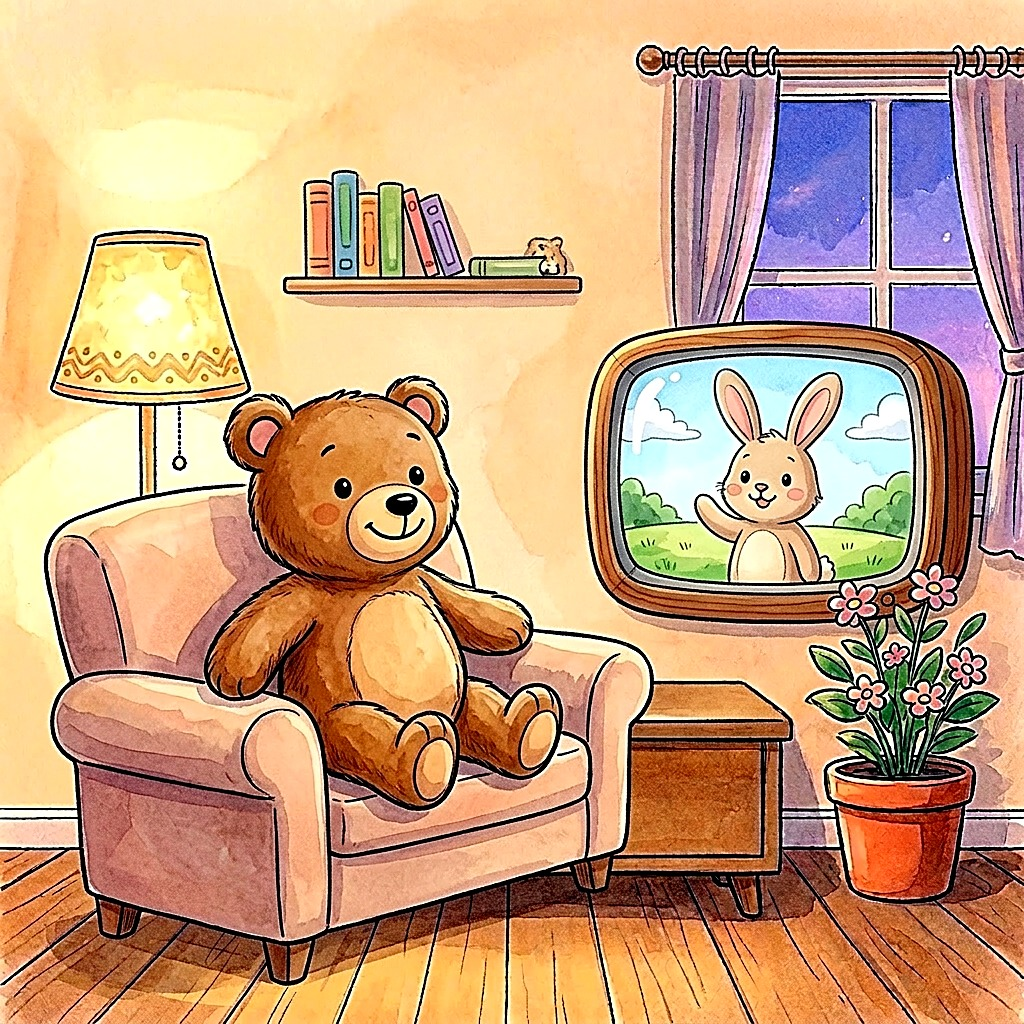
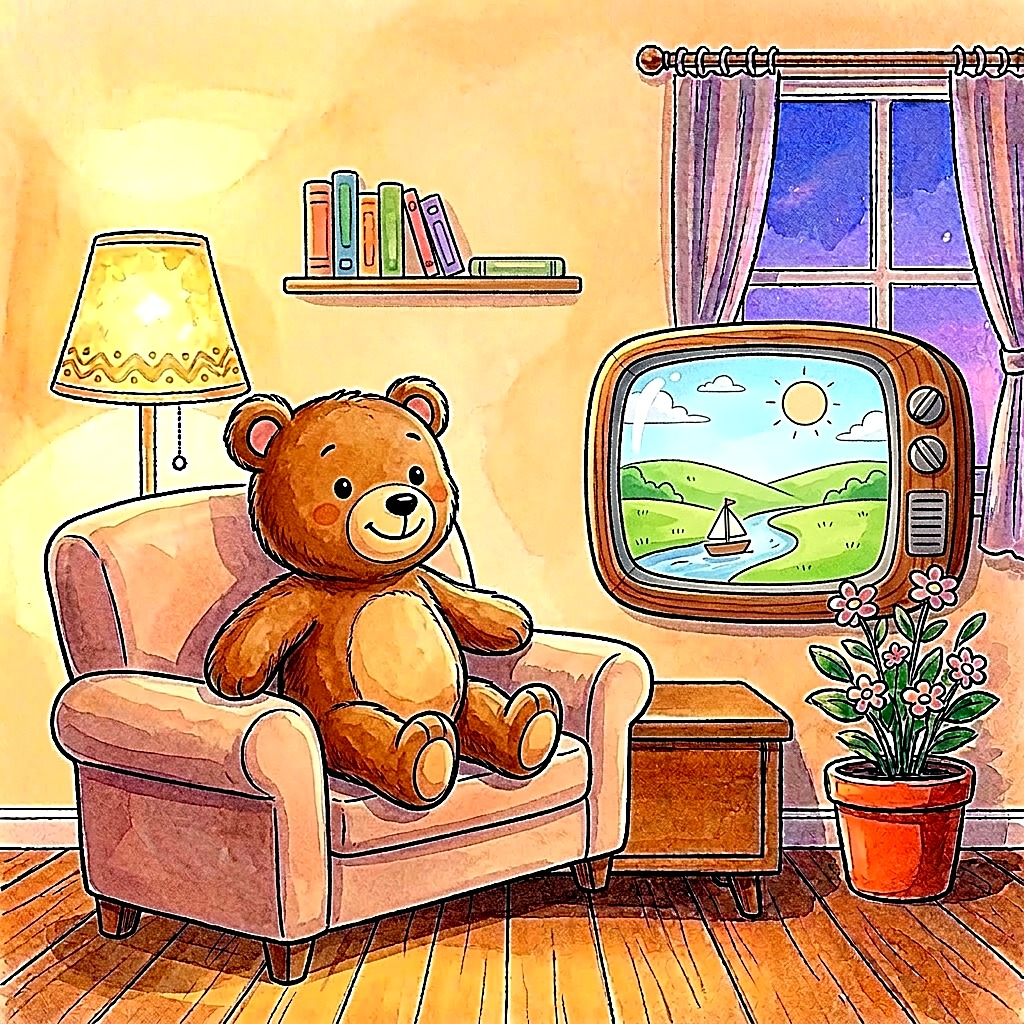
cartoon-bear: the TV shows a landscape with a sailboat, no bunny (the cartoon decision excludes the bunny); no animal figure on the shelf
Google Lens on the raw and final file and on crops (bear, TV, shelf, plant, lamp):
no exact matches; visual matches show only the same motif.

diff --git a/children/data.js b/children/data.js
@@ -204,7 +204,7 @@ window.SHEET_DATA = {
    "theme": "plain"
   },
   "cartoon-bear": {
-   "title": "Teddy bear in an armchair watching a friendly bunny on a rounded wooden TV",
+   "title": "Teddy bear in an armchair watching a landscape with a sailboat on a rounded wooden TV",
    "label": {},
    "keywords": {},
    "theme": "bear",
@@ -994,7 +994,7 @@ window.SHEET_EDGES = {
   "brush-teeth-plain": ["#CDEDE4", "#C6E9D2"],
   "brush-teeth": ["#B7EED8", "#B5EDD8"],
   "care": ["#9EE3CA", "#BAE9D2"],
-  "cartoon-bear": ["#E5C6BA", "#FFFAB9"],
+  "cartoon-bear": ["#E7C7BE", "#FFFDAF"],
   "cartoon": ["#FAD9C2", "#FFFAC2"],
   "clear-table-bear": ["#FFF4D4", "#FDEEC7"],
   "clear-table": ["#DAE0D1", "#EBD2B5"],

diff --git a/images/README.md b/images/README.md
@@ -9,7 +9,7 @@ Generated by `tools/build.py` from `images/<id>.json`; do not edit by hand. To a
 | <img src="brush-hair.jpg" width="120" alt="Teddy bear on a stool brushing the fur on its head with a wooden brush, in front of a round mirror"> | <img src="brush-hair-plain.jpg" width="120" alt="A child&#x27;s own hand lifting a wooden hairbrush in front of the dresser, seen through the child&#x27;s eyes"> | `brush-hair`<br>`brush-hair-plain` | Teddy bear on a stool brushing the fur on its head with a wooden brush, in front of a round mirror | sl: poces*, cesanj*, cesi se, lase, lasje, glavnik*<br>en: brush hair, brush your hair, comb*, hair* | — |
 | <img src="brush-teeth.jpg" width="120" alt="Teddy bear behind the bathroom sink, seen from the front, brushing its teeth"> | <img src="brush-teeth-plain.jpg" width="120" alt="A child&#x27;s own hand holding a toothbrush with toothpaste in the mint bathroom, seen through the child&#x27;s eyes"> | `brush-teeth`<br>`brush-teeth-plain` | Teddy bear behind the bathroom sink, seen from the front, brushing its teeth | sl: zob*, scetk*, krtack*<br>en: teeth, tooth*, brush teeth, brush your teeth | en-example: MORNING ROUTINE 7<br>en-example: EVENING ROUTINE 5<br>sl-primer: JUTRANJA RUTINA 6<br>sl-primer: VEČERNA RUTINA 5 |
 | — | <img src="care.jpg" width="120" alt="Medicine bottle with a green cross, cream jar and tube evenly arranged on a bathroom shelf"> | `care` | Medicine bottle with a green cross, cream jar and tube evenly arranged on a bathroom shelf | sl: zdravil*, sirup*, vitamin*, kapljic*, krem*, mazil*, nega, negovaln*, namaz*, maz*<br>en: medicine*, medication, syrup, vitamin*, drops, cream*, lotion, ointment, skin care | en-example: EVENING ROUTINE 3<br>sl-primer: VEČERNA RUTINA 3 |
-| <img src="cartoon-bear.jpg" width="120" alt="Teddy bear in an armchair watching a friendly bunny on a rounded wooden TV"> | <img src="cartoon.jpg" width="120" alt="Wooden TV showing hills, a river and a sailboat, with lamp, flowering plant and window"> | `cartoon-bear`<br>`cartoon` | Wooden TV showing hills, a river and a sailboat, with lamp, flowering plant and window | sl: risank*, tv, televizij*, ekran*, film*<br>en: cartoon*, tv, television, screen time, show | en-example: EVENING ROUTINE 1<br>sl-primer: VEČERNA RUTINA 1 |
+| <img src="cartoon-bear.jpg" width="120" alt="Teddy bear in an armchair watching a landscape with a sailboat on a rounded wooden TV"> | <img src="cartoon.jpg" width="120" alt="Wooden TV showing hills, a river and a sailboat, with lamp, flowering plant and window"> | `cartoon-bear`<br>`cartoon` | Wooden TV showing hills, a river and a sailboat, with lamp, flowering plant and window | sl: risank*, tv, televizij*, ekran*, film*<br>en: cartoon*, tv, television, screen time, show | en-example: EVENING ROUTINE 1<br>sl-primer: VEČERNA RUTINA 1 |
 | <img src="clear-table-bear.jpg" width="120" alt="Teddy bear carrying a used plate with cutlery from the table to the kitchen counter"> | <img src="clear-table.jpg" width="120" alt="Child&#x27;s hands carrying a used plate from the table"> | `clear-table-bear`<br>`clear-table` | Child's hands carrying a used plate from the table | sl: pospravi mizo, pospravljanje mize, odnesi krozni*<br>en: clear the table, clear table, clear up the table | en-example: DINNER 5<br>sl-primer: VEČERJA 5 |
 | <img src="dinner-bear.jpg" width="120" alt="Teddy bear at the kitchen table eating pasta, meatballs and vegetables with a fork"> | <img src="dinner.jpg" width="120" alt="Plate of pasta, meatballs, carrots and broccoli on the set-table placemat"> | `dinner-bear`<br>`dinner` | Plate of pasta, meatballs, carrots and broccoli on the set-table placemat | sl: vecerj*, jej, jemo, jest, obed*, kosil*, hrana<br>en: dinner, eat*, meal, supper, lunch | en-example: DINNER 4<br>sl-primer: VEČERJA 4 |
 | <img src="getting-dressed-bear.jpg" width="120" alt="Teddy bear pulling on a rainbow T-shirt beside the bed with trousers and socks laid out"> | <img src="getting-dressed.jpg" width="120" alt="Rainbow T-shirt, jeans and a pair of striped socks laid out on a child&#x27;s bed"> | `getting-dressed-bear`<br>`getting-dressed` | Rainbow T-shirt, jeans and a pair of striped socks laid out on a child's bed | sl: oblac*, obleci, obleka, oblec*<br>en: get dressed, getting dressed, dress*, clothes | en-example: MORNING ROUTINE 5<br>sl-primer: JUTRANJA RUTINA 5 |
